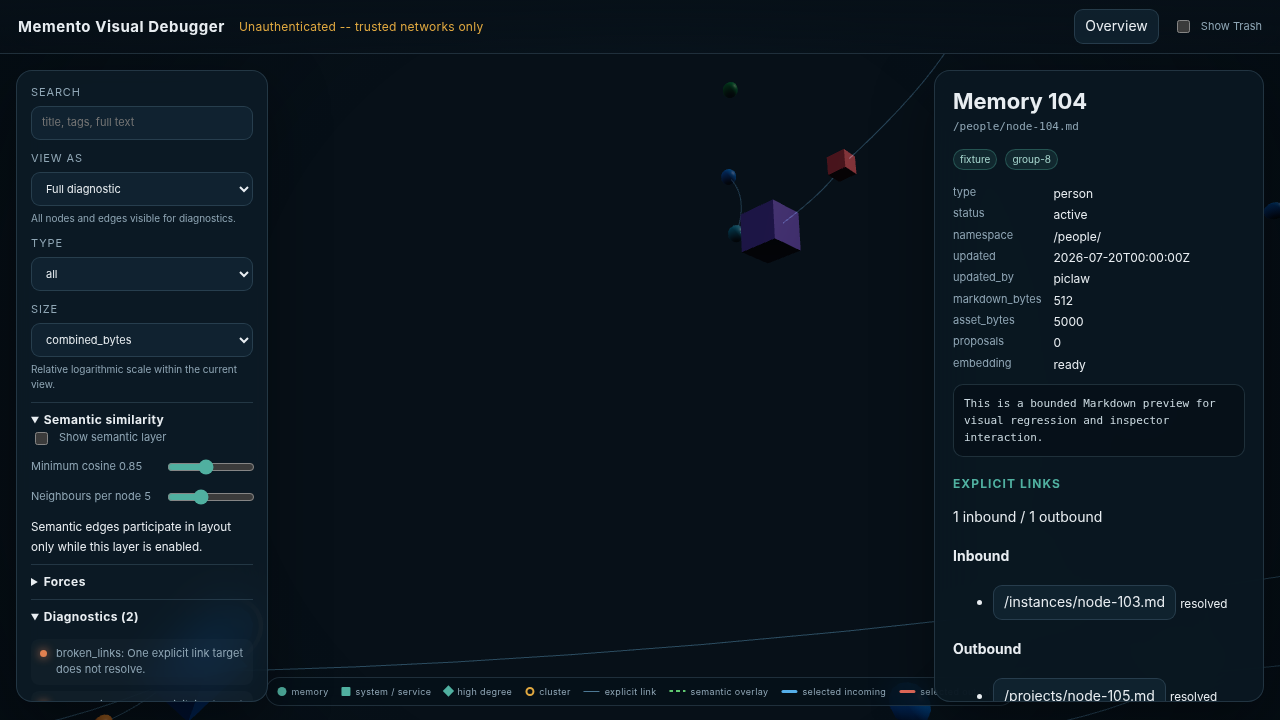
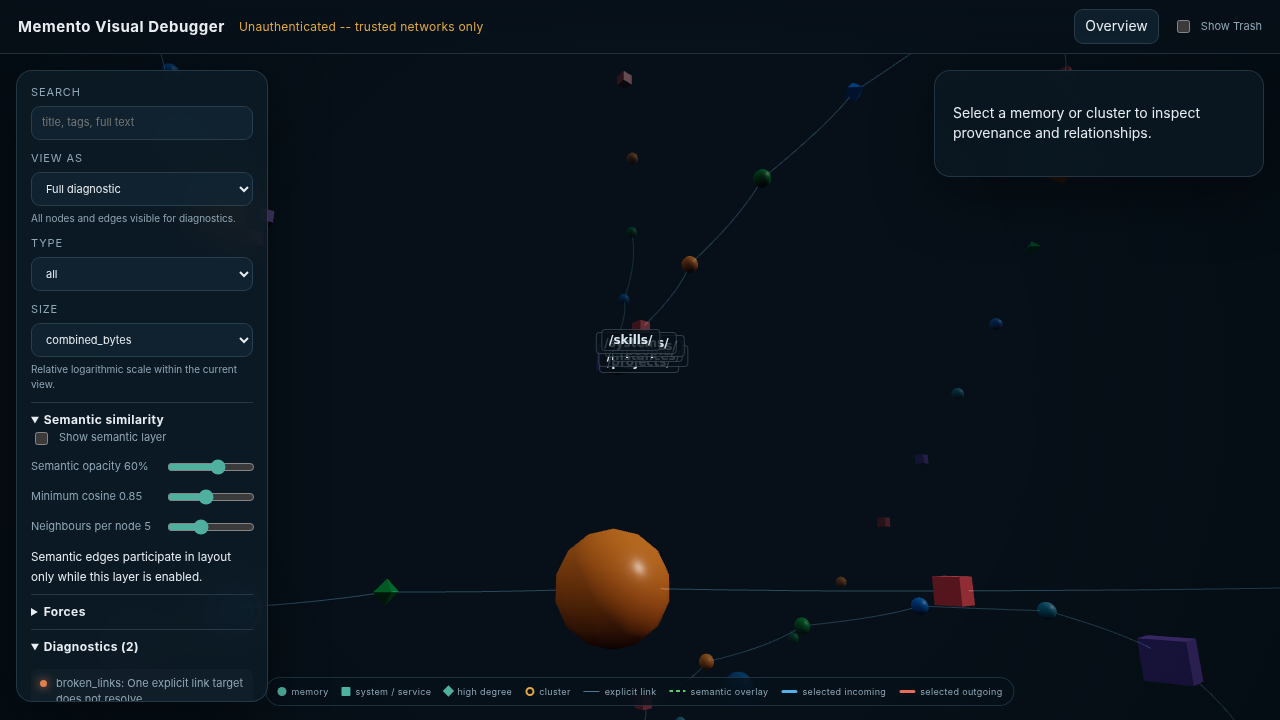
Fix shared graph forces and add independent semantic opacity

diff --git a/src/memento/graph_debug/static/graph-scene.js b/src/memento/graph_debug/static/graph-scene.js
@@ -60,12 +60,14 @@ export class GraphScene {
   }
   clusterPosition(nodes){return nodes.reduce((p,n)=>{p.x+=n.coarse_position.x/nodes.length;p.y+=n.coarse_position.y/nodes.length;p.z+=n.coarse_position.z/nodes.length;return p;},{x:0,y:0,z:0});}
   updateClusterLabels(){const rect=this.canvas.getBoundingClientRect();for(const {element,nodes} of this.clusterLabels){const p=this.clusterPosition(nodes),screen=new THREE.Vector3(p.x,p.y,p.z).project(this.camera);element.hidden=screen.z < -1||screen.z>1||Math.abs(screen.x)>1||Math.abs(screen.y)>1;element.style.left=((screen.x+1)*rect.width/2)+"px";element.style.top=((1-screen.y)*rect.height/2-24)+"px";}}
+  semanticAlpha(){return Math.max(0,Math.min(1,Number(this.settings?.semanticAlpha ?? 0.6)));}
+  setSemanticAlpha(alpha){this.settings={...this.settings,semanticAlpha:alpha};this.drawEdges();this.drawSelectedEdges();}
   metricValue(n) { const metric=this.settings?.sizeMetric||"combined_bytes",value=Number(n?.[metric]);return Number.isFinite(value)&&value>0?value:0; }
   metricDomain(nodes) { const values=nodes.map(n=>Math.log1p(this.metricValue(n)));return values.length?{min:Math.min(...values),max:Math.max(...values)}:{min:0,max:0}; }
   radius(n) { const value=Math.log1p(this.metricValue(n)),domain=this.sizeDomain||{min:value,max:value},span=domain.max-domain.min;if(span<1e-9)return .34;const relative=Math.max(0,Math.min(1,(value-domain.min)/span));return .14+relative*.56; }
-  drawEdges(){this.disposeGroup(this.edgeGroup);const map=new Map(this.nodes.map(n=>[n.id,n.coarse_position]));const explicit=[],semantic=[[],[],[]],tags=[],context=[];const dense=this.nodes.length>1000,maxEdges=dense?Math.min(2600,this.edges.length):12000;let kept=0;for(const e of this.edges){if(kept>=maxEdges)break;const a=map.get(e.source),b=map.get(e.target);if(!a||!b)continue;const semanticEdge=e.kind==="semantic_similarity";const start=new THREE.Vector3(a.x,a.y,a.z),end=new THREE.Vector3(b.x,b.y,b.z);if(start.distanceTo(this.target)>this.distance*1.7&&end.distanceTo(this.target)>this.distance*1.7)continue;const mid=start.clone().add(end).multiplyScalar(.5);mid.z+=Math.min(2.4,start.distanceTo(end)*.22);const points=new THREE.QuadraticBezierCurve3(start,mid,end).getPoints(dense?5:10),semanticBand=e.similarity>=.92?2:e.similarity>=.85?1:0,target=semanticEdge?semantic[semanticBand]:e.kind==="shared_tag"?tags:e.kind==="shared_namespace"||e.kind==="shared_type"?context:explicit;for(let i=0;i<points.length-1;i++)target.push(points[i],points[i+1]);kept++;}const add=(vertices,color,opacity,dashed=false)=>{if(!vertices.length)return;const geo=new THREE.BufferGeometry().setFromPoints(vertices),material=dashed?new THREE.LineDashedMaterial({color,transparent:true,opacity,depthWrite:false,dashSize:.22,gapSize:.14,blending:THREE.AdditiveBlending}):new THREE.LineBasicMaterial({color,transparent:true,opacity,depthWrite:false,blending:THREE.AdditiveBlending}),lines=new THREE.LineSegments(geo,material);if(dashed)lines.computeLineDistances();this.edgeGroup.add(lines);};add(explicit,0x4d7894,dense?.24:.42);add(tags,0x50b0a0,dense?.12:.28);add(context,0x7250a0,dense?.09:.2);add(semantic[0],0x3f9f68,.32,true);add(semantic[1],0x50b878,.5,true);add(semantic[2],0x60c870,.72,true);this.visibleEdgeCount=kept;}
+  drawEdges(){this.disposeGroup(this.edgeGroup);const map=new Map(this.nodes.map(n=>[n.id,n.coarse_position]));const explicit=[],semantic=[[],[],[]],tags=[],context=[];const dense=this.nodes.length>1000,maxEdges=dense?Math.min(2600,this.edges.length):12000;let kept=0;for(const e of this.edges){if(kept>=maxEdges)break;const a=map.get(e.source),b=map.get(e.target);if(!a||!b)continue;const semanticEdge=e.kind==="semantic_similarity";const start=new THREE.Vector3(a.x,a.y,a.z),end=new THREE.Vector3(b.x,b.y,b.z);if(start.distanceTo(this.target)>this.distance*1.7&&end.distanceTo(this.target)>this.distance*1.7)continue;const mid=start.clone().add(end).multiplyScalar(.5);mid.z+=Math.min(2.4,start.distanceTo(end)*.22);const points=new THREE.QuadraticBezierCurve3(start,mid,end).getPoints(dense?5:10),semanticBand=e.similarity>=.92?2:e.similarity>=.85?1:0,target=semanticEdge?semantic[semanticBand]:e.kind==="shared_tag"?tags:e.kind==="shared_namespace"||e.kind==="shared_type"||e.kind==="shared_provenance"?context:explicit;for(let i=0;i<points.length-1;i++)target.push(points[i],points[i+1]);kept++;}const add=(vertices,color,opacity,dashed=false)=>{if(!vertices.length)return;const geo=new THREE.BufferGeometry().setFromPoints(vertices),material=dashed?new THREE.LineDashedMaterial({color,transparent:true,opacity,depthWrite:false,dashSize:.22,gapSize:.14,blending:THREE.AdditiveBlending}):new THREE.LineBasicMaterial({color,transparent:true,opacity,depthWrite:false,blending:THREE.AdditiveBlending}),lines=new THREE.LineSegments(geo,material);if(dashed)lines.computeLineDistances();this.edgeGroup.add(lines);};add(explicit,0x4d7894,dense?.24:.42);add(tags,0x50b0a0,dense?.12:.28);add(context,0x7250a0,dense?.09:.2);add(semantic[0],0x3f9f68,.32*this.semanticAlpha(),true);add(semantic[1],0x50b878,.5*this.semanticAlpha(),true);add(semantic[2],0x60c870,.72*this.semanticAlpha(),true);this.visibleEdgeCount=kept;}
   clearSelectedEdges(){for(const child of this.selectedEdgeGroup.children){child.geometry?.dispose();if(Array.isArray(child.material))child.material.forEach(material=>material.dispose());else child.material?.dispose();}this.selectedEdgeGroup.clear();this.selectedEdgeGroup.userData={incoming:0,outgoing:0};}
-  drawSelectedEdges(){this.clearSelectedEdges();if(!this.selectedId)return;const map=new Map(this.nodes.map(n=>[n.id,n.coarse_position]));let incoming=0,outgoing=0,semantic=0;for(const edge of this.edges){const isIncoming=edge.target===this.selectedId,isOutgoing=edge.source===this.selectedId;if(!isIncoming&&!isOutgoing)continue;const a=map.get(edge.source),b=map.get(edge.target);if(!a||!b)continue;const start=new THREE.Vector3(a.x,a.y,a.z),end=new THREE.Vector3(b.x,b.y,b.z),mid=start.clone().add(end).multiplyScalar(.5);mid.z+=Math.min(2.4,start.distanceTo(end)*.22);const curve=new THREE.QuadraticBezierCurve3(start,mid,end),isSemantic=edge.kind==="semantic_similarity",radius=isSemantic?.012+Math.max(0,(edge.similarity||.75)-.75)*.05:.022,geometry=new THREE.TubeGeometry(curve,10,radius,5,false),material=new THREE.MeshBasicMaterial({color:isSemantic?0x60c870:isIncoming?0x55aee8:0xe66b5b,transparent:true,opacity:isSemantic?.52:.92,depthWrite:false,blending:THREE.AdditiveBlending});const mesh=new THREE.Mesh(geometry,material);mesh.userData.direction=isSemantic?"semantic":isIncoming?"incoming":"outgoing";this.selectedEdgeGroup.add(mesh);if(isSemantic)semantic++;else if(isIncoming)incoming++;else outgoing++;}this.selectedEdgeGroup.userData={incoming,outgoing,semantic};}
+  drawSelectedEdges(){this.clearSelectedEdges();if(!this.selectedId)return;const map=new Map(this.nodes.map(n=>[n.id,n.coarse_position]));let incoming=0,outgoing=0,semantic=0;for(const edge of this.edges){const isIncoming=edge.target===this.selectedId,isOutgoing=edge.source===this.selectedId;if(!isIncoming&&!isOutgoing)continue;const a=map.get(edge.source),b=map.get(edge.target);if(!a||!b)continue;const start=new THREE.Vector3(a.x,a.y,a.z),end=new THREE.Vector3(b.x,b.y,b.z),mid=start.clone().add(end).multiplyScalar(.5);mid.z+=Math.min(2.4,start.distanceTo(end)*.22);const curve=new THREE.QuadraticBezierCurve3(start,mid,end),isSemantic=edge.kind==="semantic_similarity",radius=isSemantic?.012+Math.max(0,(edge.similarity||.75)-.75)*.05:.022,geometry=new THREE.TubeGeometry(curve,10,radius,5,false),material=new THREE.MeshBasicMaterial({color:isSemantic?0x60c870:isIncoming?0x55aee8:0xe66b5b,transparent:true,opacity:isSemantic?.52*this.semanticAlpha():.92,depthWrite:false,blending:THREE.AdditiveBlending});const mesh=new THREE.Mesh(geometry,material);mesh.userData.direction=isSemantic?"semantic":isIncoming?"incoming":"outgoing";this.selectedEdgeGroup.add(mesh);if(isSemantic)semantic++;else if(isIncoming)incoming++;else outgoing++;}this.selectedEdgeGroup.userData={incoming,outgoing,semantic};}
   drawHalos(){this.disposeGroup(this.haloGroup);const ring=new THREE.RingGeometry(1.18,1.34,40);for(const n of this.nodes){const selected=n.id===this.selectedId,actionable=n.anomaly_ids?.some(isActionableAnomaly);if(!selected&&!actionable)continue;const p=n.coarse_position,s=this.radius(n);const mesh=new THREE.Mesh(ring,new THREE.MeshBasicMaterial({color:selected?0x50b0a0:0xe08050,transparent:true,opacity:selected?.88:.5,side:THREE.DoubleSide,depthWrite:false,blending:THREE.AdditiveBlending}));mesh.position.set(p.x,p.y,p.z);mesh.scale.setScalar(s*(selected?1.18:1));mesh.lookAt(this.camera.position);this.haloGroup.add(mesh);}}
   applyPositions(positions,progress=1){const by=new Map(positions.map(p=>[p.id,p]));this.nodes.forEach(n=>{const p=by.get(n.id);if(p)n.coarse_position={x:p.x,y:p.y,z:p.z};});if(this.largePoints){const attribute=this.largePoints.geometry.getAttribute("position");this.nodes.forEach((n,i)=>attribute.setXYZ(i,n.coarse_position.x,n.coarse_position.y,n.coarse_position.z));attribute.needsUpdate=true;this.largePoints.geometry.computeBoundingSphere();}else{const m=new THREE.Matrix4();for(const mesh of this.meshes||[]){mesh.userData.globalIndices.forEach((globalIndex,i)=>{const n=this.nodes[globalIndex],p=n.coarse_position,s=this.radius(n);m.compose(new THREE.Vector3(p.x,p.y,p.z),new THREE.Quaternion(),new THREE.Vector3(s,s,s));mesh.setMatrixAt(i,m);});mesh.instanceMatrix.needsUpdate=true;mesh.computeBoundingSphere();}}this.drawHalos();this.drawEdges();this.drawSelectedEdges();}
   disposeGroup(group){group.traverse(child=>{child.geometry?.dispose();(Array.isArray(child.material)?child.material:[child.material]).forEach(material=>material?.dispose());});group.clear();}

diff --git a/src/memento/graph_debug/static/app.js b/src/memento/graph_debug/static/app.js
@@ -125,6 +125,7 @@ function App() {
   const [sizeMetric, setSizeMetric] = useState("combined_bytes");
   const [forces, setForces] = useState(forceDefaults);
   const [semanticEnabled, setSemanticEnabled] = useState(false);
+  const [semanticAlpha, setSemanticAlpha] = useState(0.6);
   const [semanticThreshold, setSemanticThreshold] = useState(0.85);
   const [semanticNeighbours, setSemanticNeighbours] = useState(5);
   const [perf, setPerf] = useState({});
@@ -193,7 +194,7 @@ function App() {
     scene.current?.setGraph(
       nodes,
       semanticDisplayEdges(edges, selected?.id, semanticEnabled, semanticThreshold, semanticNeighbours),
-      { sizeMetric: effectiveSizeMetric(payload, sizeMetric), forces, clusters: payload.clusters || [] },
+      { sizeMetric: effectiveSizeMetric(payload, sizeMetric), forces, semanticAlpha, clusters: payload.clusters || [] },
     );
   }
 
@@ -284,6 +285,12 @@ function App() {
   const matchesType = (node) => type === "all" || node.type === type || aggregateType(node) === type;
   const matchesQuery = (node) =>
     !query || `${node.title || ""} ${node.label || ""} ${node.path || ""} ${node.namespace || ""} ${(node.tags || []).join(" ")}`.toLowerCase().includes(query.toLowerCase());
+  const forceEdgeCounts = {};
+  const forceVisible = new Set(nodes.filter(node => matchesType(node) && matchesQuery(node)).map(node => node.id));
+  for (const edge of (graph?.mode === "aggregated" ? graph.cluster_edges : graph?.edges) || []) {
+    if (forceVisible.has(edge.source) && forceVisible.has(edge.target)) forceEdgeCounts[edge.kind || "explicit"] = (forceEdgeCounts[edge.kind || "explicit"] || 0) + 1;
+  }
+  const inactiveForce = key => !["repulsion", "distance"].includes(key) && (!forceEdgeCounts[key] || (key === "semantic_similarity" && !semanticEnabled));
   const filtered = useMemo(() => nodes.filter((node) => matchesType(node) && matchesQuery(node)), [nodes, type, query]);
 
   function redrawFiltered() {
@@ -302,9 +309,11 @@ function App() {
         semanticThreshold,
         semanticNeighbours,
       ),
-      { sizeMetric: effectiveSizeMetric(graph, sizeMetric), forces, clusters: graph.clusters || [] },
+      { sizeMetric: effectiveSizeMetric(graph, sizeMetric), forces, semanticAlpha, clusters: graph.clusters || [] },
     );
   }
+
+  useEffect(() => { scene.current?.setSemanticAlpha(semanticAlpha); }, [semanticAlpha]);
 
   useEffect(redrawFiltered, [filtered, sizeMetric, forces, semanticEnabled, semanticThreshold, semanticNeighbours]);
 
@@ -364,6 +373,7 @@ function App() {
         forces,
         include_preview: includePreview,
         semantic_enabled: semanticEnabled,
+        semantic_alpha: semanticAlpha,
         semantic_threshold: semanticThreshold,
         semantic_neighbours: semanticNeighbours,
       };
@@ -520,6 +530,11 @@ function App() {
           "Show semantic layer",
         ]),
         h("label", { class: "slider" }, [
+          `Semantic opacity ${Math.round(semanticAlpha * 100)}%`,
+          h("input", { type: "range", min: 0, max: 1, step: 0.05, value: semanticAlpha,
+            onInput: event => setSemanticAlpha(Number(event.currentTarget.value)) }),
+        ]),
+        h("label", { class: "slider" }, [
           `Minimum cosine ${semanticThreshold.toFixed(2)}`,
           h("input", {
             type: "range",
@@ -548,9 +563,11 @@ function App() {
         h("button", { onClick: () => setForces({ ...forceDefaults }) }, "Reset forces"),
         ...Object.entries(forces).map(([key, value]) =>
           h("label", { class: "slider" }, [
-            `${key.replaceAll("_", " ")} ${value.toFixed(key === "distance" ? 1 : 3)}`,
+            `${key.replaceAll("_", " ")} ${value.toFixed(key === "distance" ? 1 : 3)}${key.startsWith("shared_") ? ` (${forceEdgeCounts[key] || 0} links)` : ""}`,
             h("input", {
               type: "range",
+              disabled: inactiveForce(key),
+              title: inactiveForce(key) ? "No active relationships of this kind in the current view" : "Adjust layout attraction",
               min: key === "distance" ? 0.5 : 0,
               max: key === "distance" ? 12 : key === "repulsion" ? 1 : 0.5,
               step: key === "distance" ? 0.1 : 0.005,

diff --git a/tests/browser/graph.spec.ts b/tests/browser/graph.spec.ts
@@ -227,3 +227,36 @@ test('layout worker yields, responds to forces, settles and cancels old jobs', a
   expect(result.first).toBeCloseTo(2,1);expect(result.second).toBeCloseTo(7,1);
   expect(result.count).toBeGreaterThan(2);expect(result.after).toBe(result.count);
 });
+
+test('semantic alpha changes only semantic materials without restarting forces', async ({page,browserName,isMobile})=>{
+  test.skip(isMobile||browserName!=='chromium','assert once');
+  await page.goto('/graph',{waitUntil:'networkidle'});
+  await page.locator('label:has-text("Show semantic layer") input').check();
+  await page.evaluate(()=>{const s:any=(window as any).__mementoGraphScene;s.callbacks.select(s.nodes[7]);});
+  await expect.poll(()=>page.evaluate(()=>(window as any).__mementoGraphScene.selectedEdgeGroup.userData.semantic||0)).toBeGreaterThan(0);
+  const before=await page.evaluate(()=>{const s:any=(window as any).__mementoGraphScene;return {layoutId:s.layoutId,explicit:s.selectedEdgeGroup.children.filter((c:any)=>c.userData.direction!=='semantic').map((c:any)=>c.material.opacity),opacity:s.selectedEdgeGroup.children.find((c:any)=>c.userData.direction==='semantic').material.opacity};});
+  expect(before.opacity).toBeCloseTo(.52*.6);
+  await page.locator('label.slider').filter({hasText:'Semantic opacity'}).locator('input').fill('0.25');
+  await expect.poll(()=>page.evaluate(()=>(window as any).__mementoGraphScene.selectedEdgeGroup.children.find((c:any)=>c.userData.direction==='semantic').material.opacity)).toBeCloseTo(.52*.25);
+  const after=await page.evaluate(()=>{const s:any=(window as any).__mementoGraphScene;return {layoutId:s.layoutId,explicit:s.selectedEdgeGroup.children.filter((c:any)=>c.userData.direction!=='semantic').map((c:any)=>c.material.opacity)};});
+  expect(after.layoutId).toBe(before.layoutId);expect(after.explicit).toEqual(before.explicit);
+});
+
+test('each shared force drives layout with other forces disabled', async ({page,browserName,isMobile})=>{
+  test.skip(isMobile||browserName!=='chromium','assert once');
+  await page.goto('/graph',{waitUntil:'networkidle'});
+  const distances=await page.evaluate(async()=>{
+    const result:any={};
+    for(const kind of ['shared_tag','shared_namespace','shared_type','shared_provenance']){
+      const run=(strength:number)=>new Promise<number>((resolve,reject)=>{
+        const worker=new Worker('/graph/assets/layout-worker.js',{type:'module'});
+        const timer=setTimeout(()=>{worker.terminate();reject(Error(kind+' did not settle'));},15000);
+        worker.onmessage=({data})=>{if(data.settled){clearTimeout(timer);worker.terminate();resolve(Math.abs(data.positions[1].x-data.positions[0].x));}};
+        worker.postMessage({type:'layout',layoutId:1,nodes:[{id:'a',coarse_position:{x:0,y:0,z:0}},{id:'b',coarse_position:{x:10,y:0,z:0}}],edges:[{source:'a',target:'b',kind}],forces:{[kind]:strength,repulsion:0,distance:3}});
+      });
+      result[kind]={off:await run(0),on:await run(.2)};
+    }
+    return result;
+  });
+  for(const pair of Object.values(distances) as any[]){expect(pair.off).toBe(10);expect(pair.on).toBeCloseTo(3.6,1);}
+});

diff --git a/src/memento/graph_debug/static/layout-worker.js b/src/memento/graph_debug/static/layout-worker.js
@@ -10,8 +10,12 @@ self.onmessage = ({ data }) => {
   const velocity = positions.map(() => ({ x: 0, y: 0, z: 0 }));
   const links = edges.map((edge) => ({ ...edge, si: index.get(edge.source), ti: index.get(edge.target) }))
     .filter((edge) => edge.si != null && edge.ti != null && edge.si !== edge.ti);
-  const degree = positions.map(() => 0);
-  links.forEach((edge) => { degree[edge.si]++; degree[edge.ti]++; });
+  const degrees = new Map();
+  links.forEach(edge => {
+    const kind=edge.kind||"explicit";
+    if(!degrees.has(kind))degrees.set(kind,positions.map(()=>0));
+    if((forces[kind]??0.06)>0){degrees.get(kind)[edge.si]++;degrees.get(kind)[edge.ti]++;}
+  });
   let quietSteps = 0;
   let step = 0;
 
@@ -25,6 +29,7 @@ self.onmessage = ({ data }) => {
         const dx = b.x - a.x, dy = b.y - a.y, dz = b.z - a.z;
         const distance = Math.hypot(dx, dy, dz) || 0.001;
         const kind = edge.kind || "explicit";
+        const degree=degrees.get(kind);
         const strength = Math.max(0, forces[kind] ?? 0.06) / Math.sqrt(Math.max(degree[edge.si], degree[edge.ti], 1));
         const desired = (forces.distance ?? 3) * (kind === "semantic_similarity" ? 0.8 : kind === "explicit" ? 1 : 1.2);
         const pull = (distance - desired) * strength / distance;

diff --git a/src/memento/graph_debug/snapshot.py b/src/memento/graph_debug/snapshot.py
@@ -7,7 +7,7 @@ import re
 import sqlite3
 import struct
 from collections import Counter, defaultdict
-from collections.abc import Sequence
+from collections.abc import Iterator, Sequence
 from dataclasses import asdict
 from pathlib import Path
 from typing import Any, Literal
@@ -27,6 +27,7 @@ from memento.graph_debug.models import (
     GraphAssetSummary,
     GraphClusterExpansion,
     GraphEdge,
+    GraphEdgeKind,
     GraphEmbeddingState,
     GraphMemoryDetail,
     GraphMetrics,
@@ -59,34 +60,55 @@ def _is_sparse_overview(nodes: Sequence[GraphNode], edges: Sequence[GraphEdge]) 
     return orphan_count / len(nodes) >= 0.5
 
 
-def _overlay_edges(
-    nodes: Sequence[GraphNode], repository_revision: str, limit: int
-) -> list[GraphEdge]:
+def _overlay_edges(nodes: list[GraphNode], revision: str, limit: int) -> list[GraphEdge]:
+    """Bounded deterministic chains, interleaved so no shared kind starves another."""
     if limit <= 0:
         return []
-    by_tag: dict[str, list[GraphNode]] = defaultdict(list)
+    groups: dict[GraphEdgeKind, dict[str, list[GraphNode]]] = {
+        kind: defaultdict(list)
+        for kind in ("shared_tag", "shared_namespace", "shared_type", "shared_provenance")
+    }
     for node in sorted(nodes, key=lambda item: item.id):
         for tag in sorted(set(node.tags)):
-            by_tag[tag].append(node)
-    result: list[GraphEdge] = []
-    for tag, members in sorted(by_tag.items()):
-        for left, right in zip(members, members[1:], strict=False):
-            result.append(
-                GraphEdge(
-                    id=f"shared-tag:{tag}:{left.id}:{right.id}",
+            groups["shared_tag"][tag].append(node)
+        groups["shared_namespace"][node.namespace].append(node)
+        groups["shared_type"][node.type].append(node)
+        for key in sorted(set(node.provenance_keys)):
+            groups["shared_provenance"][key].append(node)
+
+    def candidates(kind: GraphEdgeKind) -> Iterator[GraphEdge]:
+        seen: set[tuple[str, str]] = set()
+        for key, members in sorted(groups[kind].items()):
+            for left, right in zip(members, members[1:], strict=False):
+                pair = (left.id, right.id)
+                if pair in seen:
+                    continue
+                seen.add(pair)
+                yield GraphEdge(
+                    id=f"{kind}:{left.id}:{right.id}",
                     source=left.id,
                     target=right.id,
-                    raw_target=tag,
-                    kind="shared_tag",
+                    raw_target=kind if kind == "shared_provenance" else key,
+                    kind=kind,
                     canonical=False,
                     resolution="derived",
-                    first_seen_revision=repository_revision,
-                    last_checked_revision=repository_revision,
+                    first_seen_revision=revision,
+                    last_checked_revision=revision,
                 )
-            )
-            if len(result) >= limit:
-                return result
-    return result
+
+    streams = [candidates(kind) for kind in groups]
+    edges: list[GraphEdge] = []
+    while streams and len(edges) < limit:
+        remaining = []
+        for stream in streams:
+            item = next(stream, None)
+            if item is not None:
+                edges.append(item)
+                remaining.append(stream)
+                if len(edges) == limit:
+                    break
+        streams = remaining
+    return edges
 
 
 def _semantic_edges(
@@ -722,6 +744,7 @@ class GraphSnapshotService:
                     namespace=self._namespace(path),
                     updated_at=str(row["updated_at"]),
                     updated_by=self._updated_by(path),
+                    provenance_keys=self._provenance_keys(path),
                     markdown_bytes=markdown_bytes,
                     asset_bytes=asset_bytes,
                     combined_bytes=markdown_bytes + asset_bytes,
@@ -937,6 +960,13 @@ class GraphSnapshotService:
             return self._repository_path(bundle_path).stat().st_size
         except (GraphSnapshotError, OSError):
             return 0
+
+    def _provenance_keys(self, path: str) -> tuple[str, ...]:
+        try:
+            refs = parse_concept_file(self._repository_path(path)).frontmatter.source_refs
+            return tuple(sorted({hashlib.sha256(ref.encode("utf-8")).hexdigest() for ref in refs}))
+        except (GraphSnapshotError, OSError, ValueError):
+            return ()
 
     def _updated_by(self, bundle_path: str) -> str | None:
         try:

diff --git a/tests/test_graph_layout.py b/tests/test_graph_layout.py
@@ -97,7 +97,7 @@ def test_overlay_edges_connect_adjacent_members_with_shared_tags() -> None:
         node(3, tags=("other",)),
     ]
     edges = _overlay_edges(nodes, "rev", 10)
-    assert [(edge.kind, edge.raw_target) for edge in edges] == [
+    assert [(edge.kind, edge.raw_target) for edge in edges if edge.kind == "shared_tag"] == [
         ("shared_tag", "other"),
         ("shared_tag", "shared"),
         ("shared_tag", "shared"),
@@ -132,3 +132,23 @@ def test_aggregate_semantic_edges_retain_similarity() -> None:
     result = aggregate_layout(nodes, (semantic,), repository_revision="revision", cluster_limit=10)
     assert result.edges[0].similarity == 0.91
     assert result.edges[0].canonical is False
+
+
+def test_all_shared_forces_have_bounded_relationships_and_do_not_affect_canonical_layout() -> None:
+    nodes = [
+        node(i, tags=("same",)).model_copy(update={"provenance_keys": ("hashed-ref",)})
+        for i in range(4)
+    ]
+    edges = _overlay_edges(nodes, "rev", 100)
+    assert {item.kind for item in edges} == {
+        "shared_tag",
+        "shared_namespace",
+        "shared_type",
+        "shared_provenance",
+    }
+    assert len(edges) == 12
+    assert all(not item.canonical and item.resolution == "derived" for item in edges)
+    assert len(_overlay_edges(nodes, "rev", 4)) == 4
+    assert len({item.kind for item in _overlay_edges(nodes, "rev", 4)}) == 4
+    assert _overlay_edges(list(reversed(nodes)), "rev", 100) == edges
+    assert all(item.raw_target != "hashed-ref" for item in edges)

diff --git a/src/memento/graph_debug/models.py b/src/memento/graph_debug/models.py
@@ -53,6 +53,7 @@ class GraphNode(GraphModel):
     namespace: str
     updated_at: str
     updated_by: str | None = None
+    provenance_keys: tuple[str, ...] = ()
     markdown_bytes: int = 0
     asset_bytes: int = 0
     combined_bytes: int = 0
@@ -68,7 +69,12 @@ class GraphNode(GraphModel):
 
 
 GraphEdgeKind = Literal[
-    "explicit", "shared_tag", "shared_namespace", "shared_type", "semantic_similarity"
+    "explicit",
+    "shared_tag",
+    "shared_namespace",
+    "shared_type",
+    "shared_provenance",
+    "semantic_similarity",
 ]
 
 

diff --git a/tests/test_package.py b/tests/test_package.py
@@ -2,4 +2,4 @@ from memento import __version__
 
 
 def test_package_version() -> None:
-    assert __version__ == "0.5.2"
+    assert __version__ == "0.5.3"

diff --git a/src/memento/__init__.py b/src/memento/__init__.py
@@ -1,3 +1,3 @@
 """Memento package."""
 
-__version__ = "0.5.2"
+__version__ = "0.5.3"

diff --git a/docs/graph-explorer-plan.md b/docs/graph-explorer-plan.md
@@ -76,7 +76,7 @@ The detail endpoint adds a short Markdown preview, inbound and outbound explicit
 
 The server partitions the explicit-link graph by namespace and stable communities, then creates hash-seeded coarse `x`, `y` and `z` coordinates. The same revision and settings produce the same result regardless of SQL/input ordering. Expansion begins at the parent centroid.
 
-Browser force defaults rank explicit links above semantic similarity, namespace, tags, type and provenance. Semantic similarity is default-off; its toggle controls both global and selected-node edges above the cosine threshold. Green segmented arcs and selected-node tubes encode similarity. Aggregate edges retain mean similarity when bounded embeddings are available. Missing embeddings remove only the semantic layer.
+Browser force defaults rank explicit links above semantic similarity, namespace, tags, type and provenance. Semantic similarity is default-off; its toggle controls both global and selected-node edges above the cosine threshold. Green segmented arcs and selected-node tubes encode similarity. Semantic opacity defaults to 60% and changes only their materials, not explicit links or force strength. Shared namespace, type, tag and source-reference relationships supply bounded, interleaved link chains; provenance equality uses hashed source references rather than exposing their text. Controls with no matching visible relationships are disabled. Aggregate edges retain mean similarity when bounded embeddings are available. Missing embeddings remove only the semantic layer.
 
 Cluster names are projected over the graph. Force controls expose strength, repulsion and preferred distance, reheating a cancellable worker from current positions. The worker yields between batches and stops after sustained low movement rather than a fixed iteration count. Details deduplicate neighbouring references. External URLs are classified separately from broken repository links. Show Trash adds the permission-scoped Trash group; deletion itself stays on authenticated MCP tools.
 

diff --git a/docs/release.md b/docs/release.md
@@ -33,6 +33,10 @@ Workflow checkouts require only ordinary Git. A single model-preparation job der
 
 Real GTE and Needle model coverage runs against the built container. Pointer-aware library tests skip unavailable models in matrix jobs rather than accidentally parsing pointer text. Updating a runtime model requires publishing the matching pointer-keyed release bundle before merging the pointer change.
 
+## Graph force and opacity checks for 0.5.3
+
+Semantic opacity defaults to 60%, independently adjustable without reheating layout or changing explicit links. Shared namespace, type and provenance now have bounded relationship edges alongside shared tags; their controls show available counts and disable when inactive. Degree normalisation is per force kind so unrelated edges do not dilute slider effects. Tests verify alpha on both dashed and selected semantic links and actual layout motion with each shared force enabled and disabled. This release includes the reviewed archival workflow from 0.5.2.
+
 ## Reviewed archival checks for 0.5.2
 
 Issue #20 adds `kind: trash` proposal changes and a bounded, policy-scoped `archival_impact` report. Curators inspect affected inbound references and retained accepted assets before review/apply. Archival proposals require current revisions and fresh indexes; stale reviews, mixed changes and duplicate targets fail. Apply uses the existing transaction and reconciliation pipeline. Tests cover assets, permissions, backlink visibility, stale revisions, approval and replay. Git history remains unchanged by archival.
